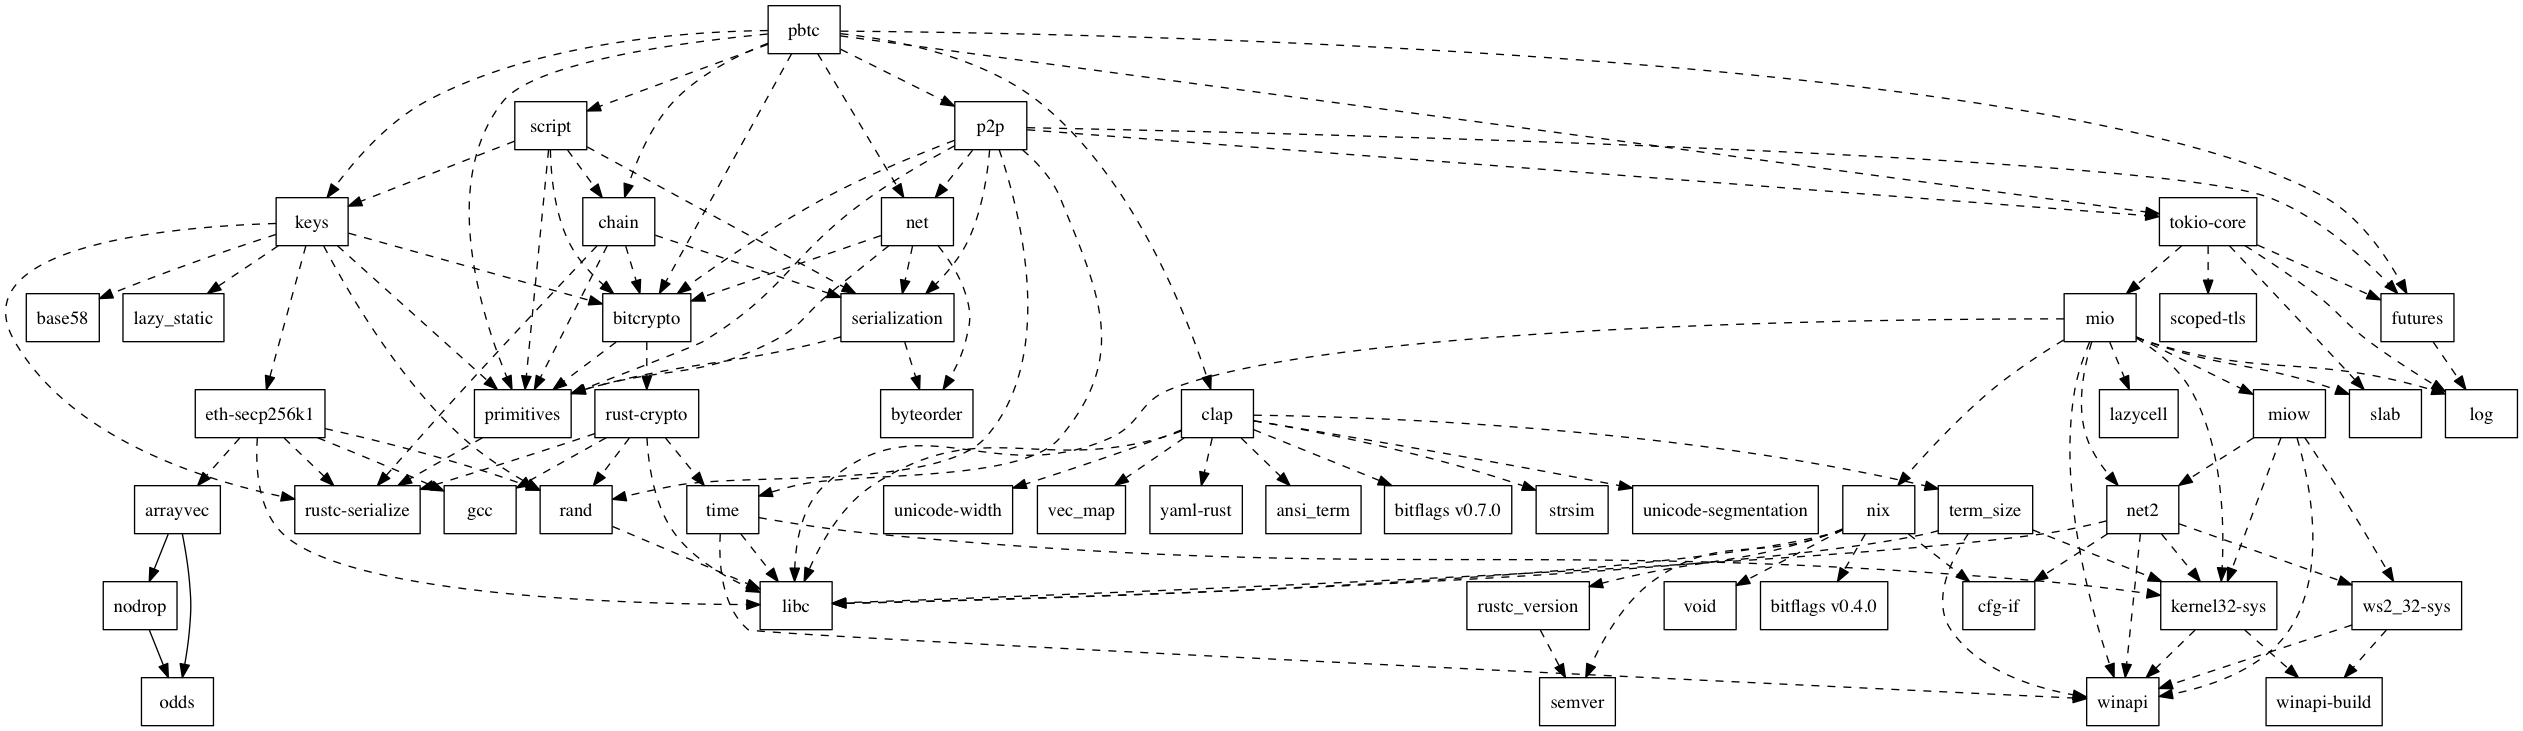
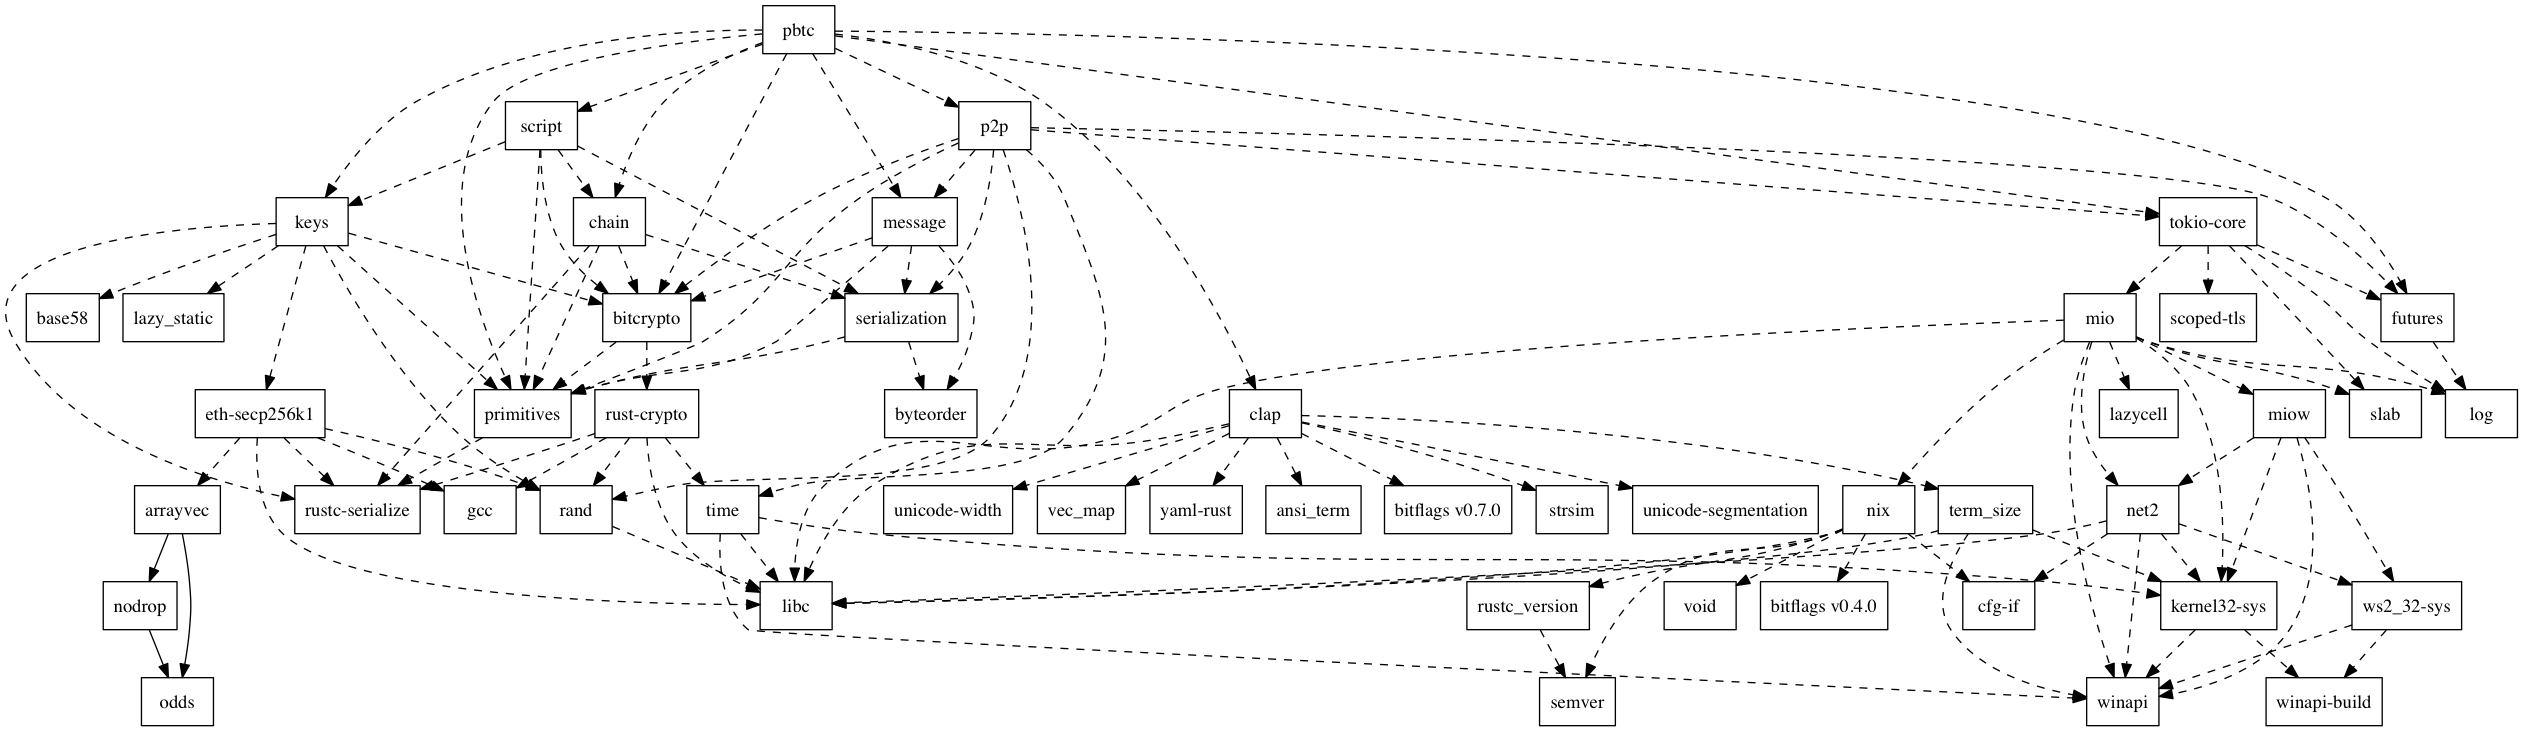
net lib renamed to message

diff --git a/p2p/src/connect.rs b/p2p/src/connect.rs
@@ -2,12 +2,13 @@ use std::{net, io};
 use futures::{Future, Poll, Async};
 use futures::stream::Stream;
 use tokio_core::reactor::Handle;
-use net::common::{Magic, ServiceFlags, NetAddress};
-use net::messages::{Version, Simple, V106, V70001};
-use stream::{TcpStream, TcpStreamNew, TcpListener, IoStream};
-use io::{handshake, Handshake, HandshakeResult, Error, accept_handshake, AcceptHandshake, VERSION};
+use message::common::{Magic, ServiceFlags, NetAddress};
+use message::types::{Version, Simple, V106, V70001};
+use stream::{TcpStream, TcpStreamNew, TcpListener};
+use io::{handshake, Handshake, HandshakeResult, accept_handshake, AcceptHandshake, IoStream};
 use util::time::{Time, RealTime};
 use util::nonce::{NonceGenerator, RandomNonce};
+use {VERSION, Error};
 
 pub struct Connection<A> where A: io::Read + io::Write {
 	pub stream: A,
@@ -87,7 +88,6 @@ pub struct Connect {
 }
 
 pub struct Listen {
-	//inner: Incoming,
 	inner: IoStream<Connection<TcpStream>>,
 }
 

diff --git a/p2p/src/io/read_message.rs b/p2p/src/io/read_message.rs
@@ -1,8 +1,9 @@
 use std::io;
 use futures::{Future, Poll, Async};
-use net::messages::{Message, MessageHeader};
-use net::common::Magic;
-use io::{read_header, read_payload, ReadHeader, ReadPayload, Error};
+use message::{Message, MessageHeader};
+use message::common::Magic;
+use io::{read_header, read_payload, ReadHeader, ReadPayload};
+use Error;
 
 enum ReadMessageState<A> {
 	ReadHeader {
@@ -72,8 +73,8 @@ impl<A> Future for ReadMessage<A> where A: io::Read {
 mod tests {
 	use futures::Future;
 	use bytes::Bytes;
-	use net::common::Magic;
-	use net::messages::{Message, Payload};
+	use message::{Message, Payload};
+	use message::common::Magic;
 	use super::read_message;
 
 	#[test]

diff --git a/p2p/src/io/read_header.rs b/p2p/src/io/read_header.rs
@@ -2,9 +2,9 @@ use std::io;
 use futures::{Future, Poll, Async};
 use tokio_core::io::{ReadExact, read_exact};
 use ser::deserialize;
-use net::messages::MessageHeader;
-use net::common::Magic;
-use io::Error;
+use message::MessageHeader;
+use message::common::Magic;
+use Error;
 
 pub fn read_header<A>(a: A, magic: Magic) -> ReadHeader<A> where A: io::Read {
 	ReadHeader {
@@ -36,8 +36,8 @@ impl<A> Future for ReadHeader<A> where A: io::Read {
 mod tests {
 	use futures::Future;
 	use bytes::Bytes;
-	use net::messages::MessageHeader;
-	use net::common::Magic;
+	use message::MessageHeader;
+	use message::common::Magic;
 	use super::read_header;
 
 	#[test]

diff --git a/p2p/src/io/mod.rs b/p2p/src/io/mod.rs
@@ -1,18 +1,15 @@
-mod error;
 mod handshake;
 mod read_header;
 mod read_message;
 mod read_payload;
+mod stream;
 mod write_message;
 
-pub const VERSION: u32 = 70_001;
-pub const USER_AGENT: &'static str = "pbtc";
-
-pub use self::error::Error;
 pub use self::handshake::{
 	handshake, accept_handshake, Handshake, AcceptHandshake, HandshakeResult
 };
 pub use self::read_header::{read_header, ReadHeader};
 pub use self::read_message::{read_message, ReadMessage};
 pub use self::read_payload::{read_payload, ReadPayload};
+pub use self::stream::IoStream;
 pub use self::write_message::{write_message, WriteMessage};

diff --git a/p2p/src/io/handshake.rs b/p2p/src/io/handshake.rs
@@ -1,8 +1,10 @@
 use std::{io, cmp};
 use futures::{Future, Poll, Async};
-use net::messages::{Version, Message, Payload};
-use net::common::Magic;
-use io::{write_message, read_message, ReadMessage, WriteMessage, Error};
+use message::{Message, Payload};
+use message::types::Version;
+use message::common::Magic;
+use io::{write_message, read_message, ReadMessage, WriteMessage};
+use Error;
 
 pub fn handshake<A>(a: A, magic: Magic, version: Version) -> Handshake<A> where A: io::Write + io::Read {
 	Handshake {

diff --git a/p2p/src/io/read_payload.rs b/p2p/src/io/read_payload.rs
@@ -2,10 +2,10 @@ use std::io;
 use futures::{Future, Poll, Async};
 use tokio_core::io::{ReadExact, read_exact};
 use bytes::Bytes;
-use net::common::Command;
-use net::messages::{Payload, deserialize_payload};
+use message::{Payload, deserialize_payload};
+use message::common::Command;
 use crypto::checksum;
-use io::Error;
+use Error;
 
 pub fn read_payload<A>(a: A, version: u32, len: usize, command: Command, checksum: [u8; 4]) -> ReadPayload<A> where A: io::Read {
 	ReadPayload {

diff --git a/message/src/message/message.rs b/message/src/message/message.rs
@@ -1,7 +1,7 @@
 use crypto::checksum;
 use ser::{Serializable, Stream, serialize};
 use common::Magic;
-use messages::{MessageHeader, Payload};
+use message::{MessageHeader, Payload};
 
 #[derive(Debug, PartialEq)]
 pub struct Message {
@@ -37,8 +37,9 @@ mod tests {
 	use bytes::Bytes;
 	use ser::serialize;
 	use common::Magic;
-	use messages::{Payload, Version};
+	use types::Version;
 	use super::Message;
+	use Payload;
 
 	#[test]
 	fn test_message_serialization() {

diff --git a/p2p/src/lib.rs b/p2p/src/lib.rs
@@ -5,14 +5,20 @@ extern crate time;
 extern crate tokio_core;
 
 extern crate bitcrypto as crypto;
-extern crate net;
+extern crate message;
 extern crate primitives;
 extern crate serialization as ser;
 
 pub mod connect;
+mod error;
 pub mod io;
 pub mod util;
 pub mod stream;
 
+pub const VERSION: u32 = 70_001;
+pub const USER_AGENT: &'static str = "pbtc";
+
 pub use primitives::bytes;
+
+pub use error::Error;
 

diff --git a/p2p/src/stream.rs b/p2p/src/stream.rs
@@ -1,9 +1,9 @@
 use std::{ops, net, io};
 use futures::{Future, Poll, Async};
-use futures::stream::{Stream, BoxStream};
+use futures::stream::Stream;
 use tokio_core::{net as tnet};
 use tokio_core::reactor::Handle;
-use io::Error;
+use Error;
 
 pub struct TcpStreamNew(tnet::TcpStreamNew);
 
@@ -93,4 +93,3 @@ impl TcpListener {
 	}
 }
 
-pub type IoStream<T> = BoxStream<T, Error>;

diff --git a/message/src/message/mod.rs b/message/src/message/mod.rs
@@ -1,11 +1,7 @@
-mod addr;
 mod message;
 mod message_header;
 mod payload;
-mod version;
 
-pub use self::addr::{Addr, AddrBelow31402};
 pub use self::message::Message;
 pub use self::message_header::MessageHeader;
 pub use self::payload::{Payload, deserialize_payload};
-pub use self::version::{Version, Simple, V106, V70001};

diff --git a/message/src/message/payload.rs b/message/src/message/payload.rs
@@ -3,7 +3,7 @@ use ser::{
 	Reader, Error as ReaderError
 };
 use common::Command;
-use messages::{Version, Addr, AddrBelow31402};
+use types::{Version, Addr, AddrBelow31402};
 
 pub fn deserialize_payload(data: &[u8], version: u32, command: &Command) -> Result<Payload, ReaderError> {
 	let mut reader = Reader::new(data);

diff --git a/message/src/lib.rs b/message/src/lib.rs
@@ -4,6 +4,9 @@ extern crate primitives;
 extern crate serialization as ser;
 
 pub mod common;
-pub mod messages;
+mod message;
+pub mod types;
 
 pub use primitives::{hash, bytes};
+
+pub use message::{Message, MessageHeader, Payload, deserialize_payload};
